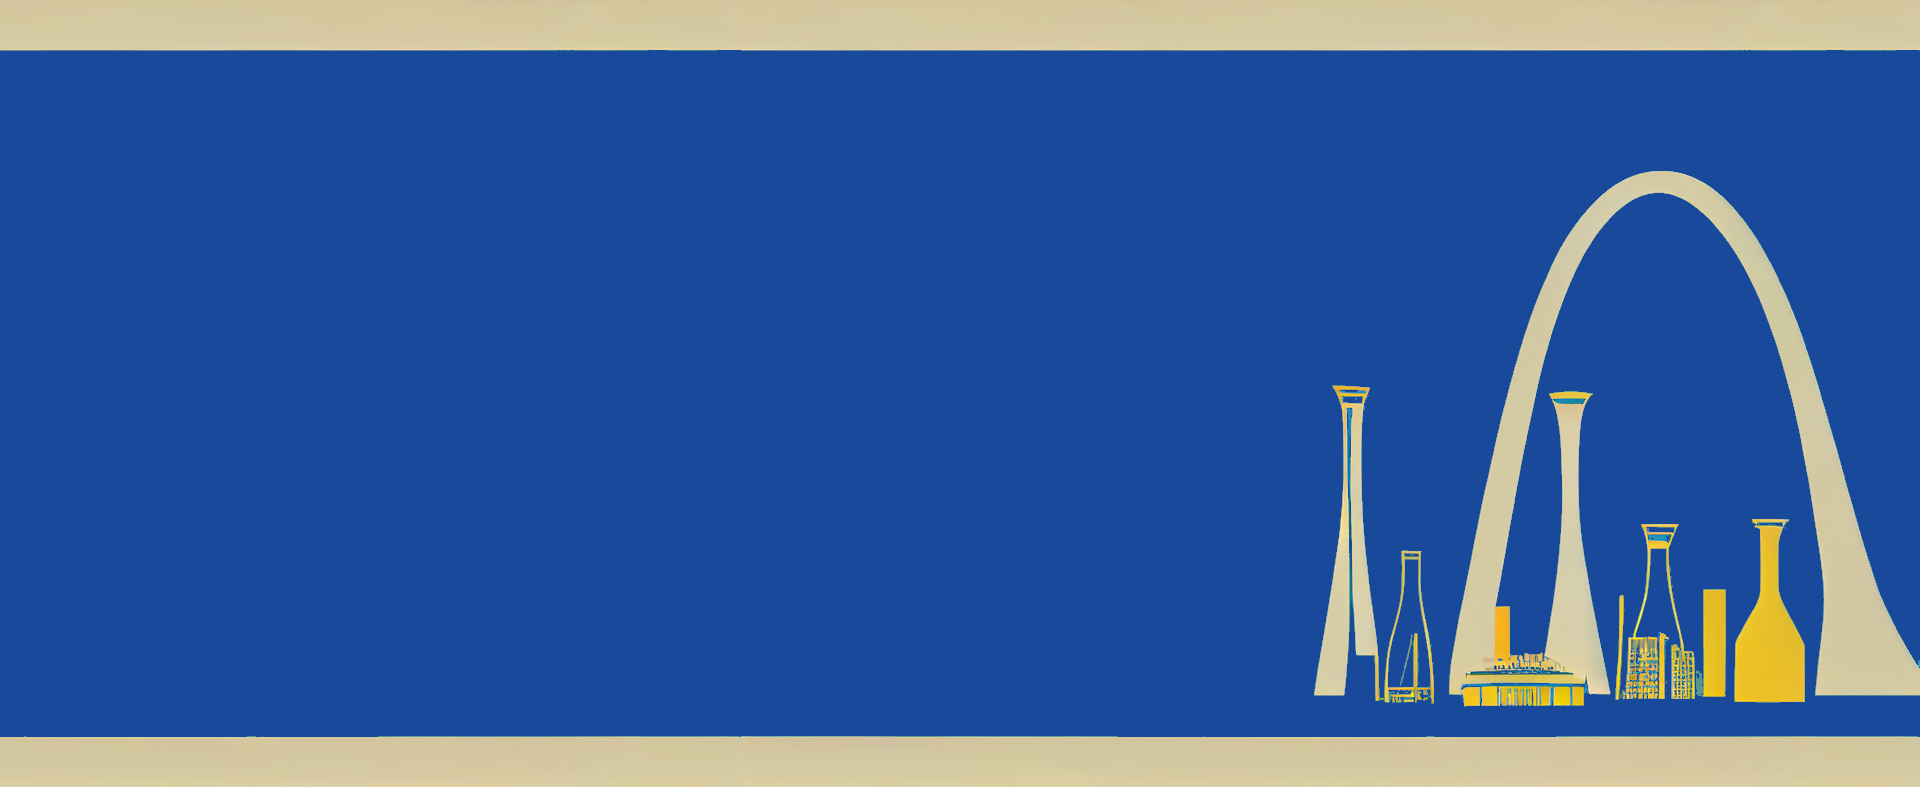
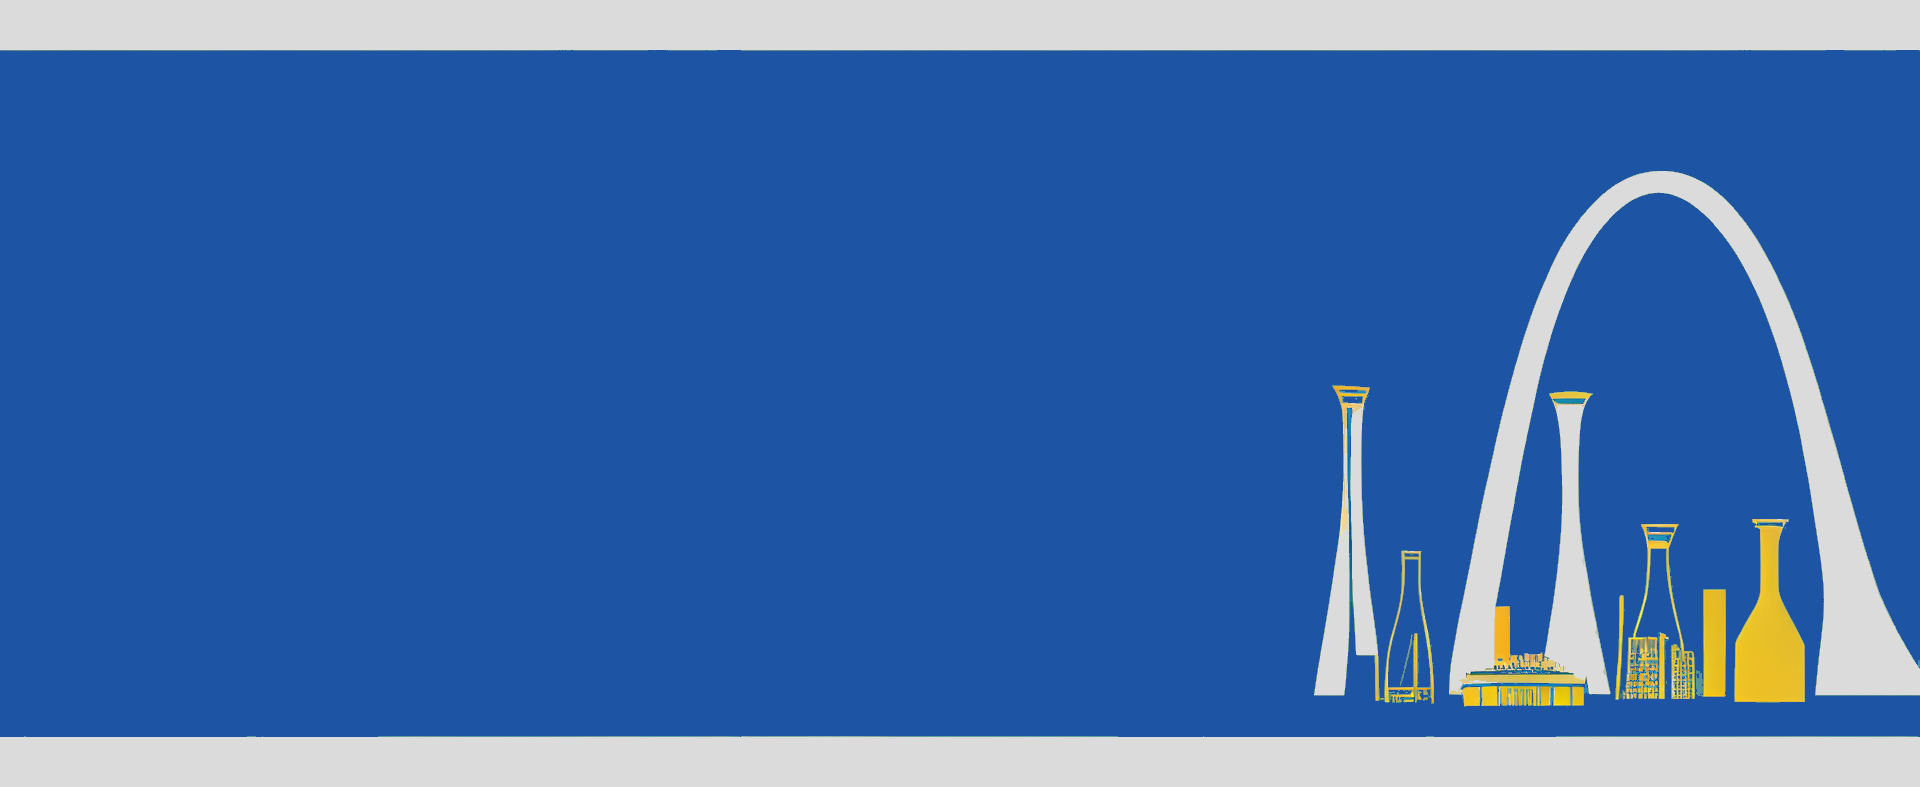
Changed colors to match ACS Web Color Pallete

diff --git a/themes/vixcon-hugo/assets/scss/_variables.scss b/themes/vixcon-hugo/assets/scss/_variables.scss
@@ -14,8 +14,8 @@ $gray                    : #a4a4a4;
 $gray-light               : #f8f8f8;
 $border-color             : #e8e8e8;
 
-$primary-color: #06489a;
-$secondary-color: #06489a;
+$primary-color: #1654a3;
+$secondary-color: #0085C7;
 $orange:#ff4747;
 $yellow:#f87c57;
 

diff --git a/themes/vixcon-hugo/assets/scss/_banner.scss b/themes/vixcon-hugo/assets/scss/_banner.scss
@@ -11,7 +11,7 @@
       font-size: 80px;
       line-height: 1.2;
       letter-spacing: -.04em;
-      color: #CABE91;
+      color: #FBD333;
 
       @include desktop {
         font-size: 80px;
